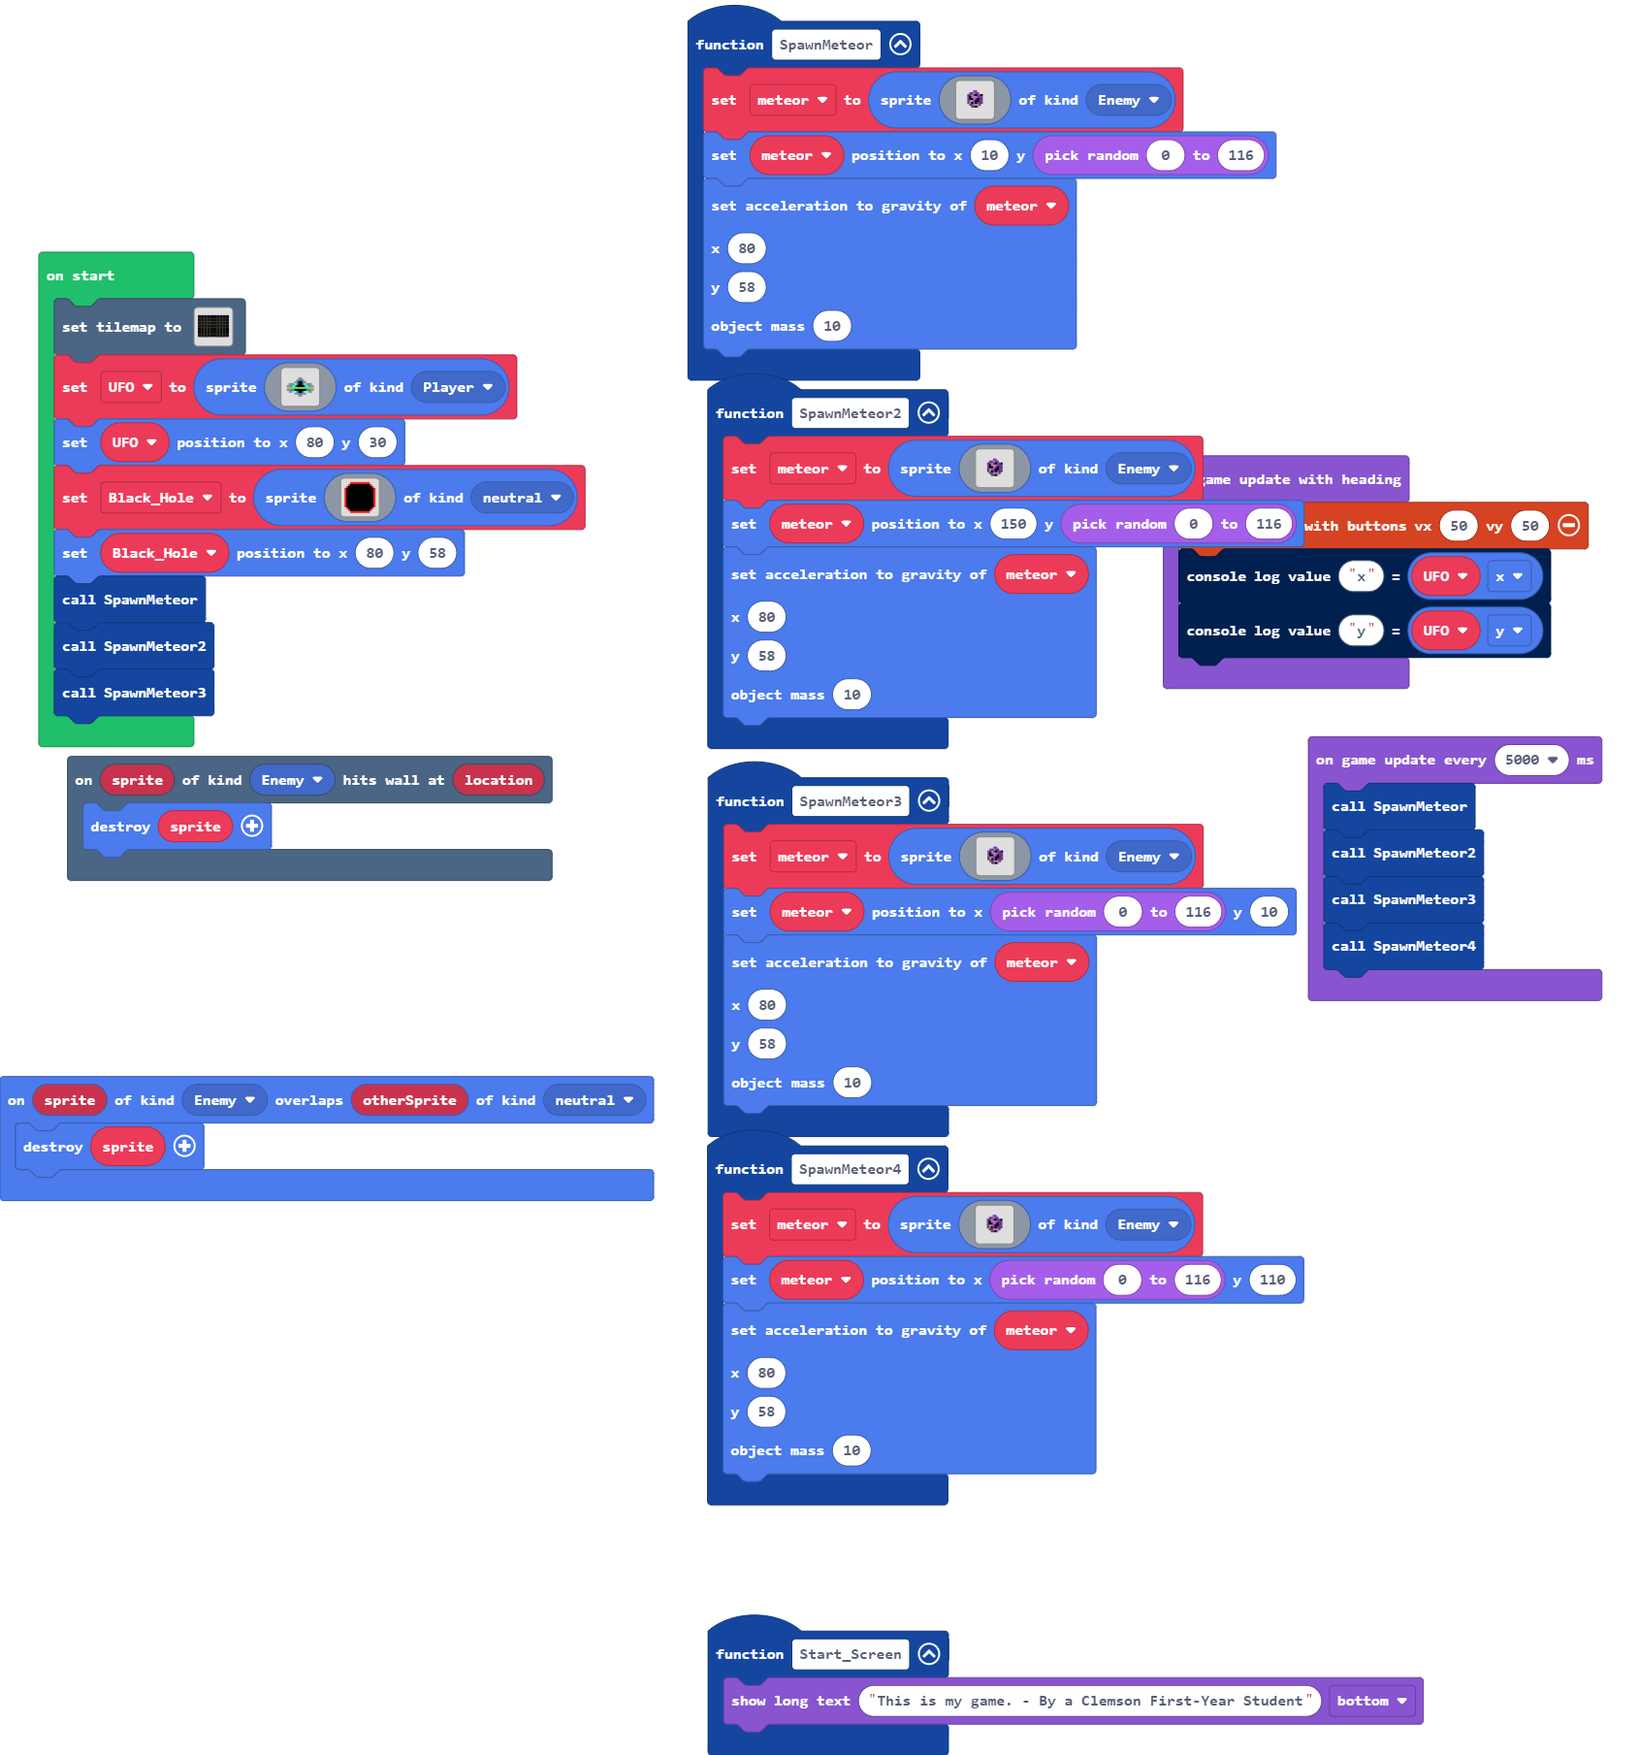
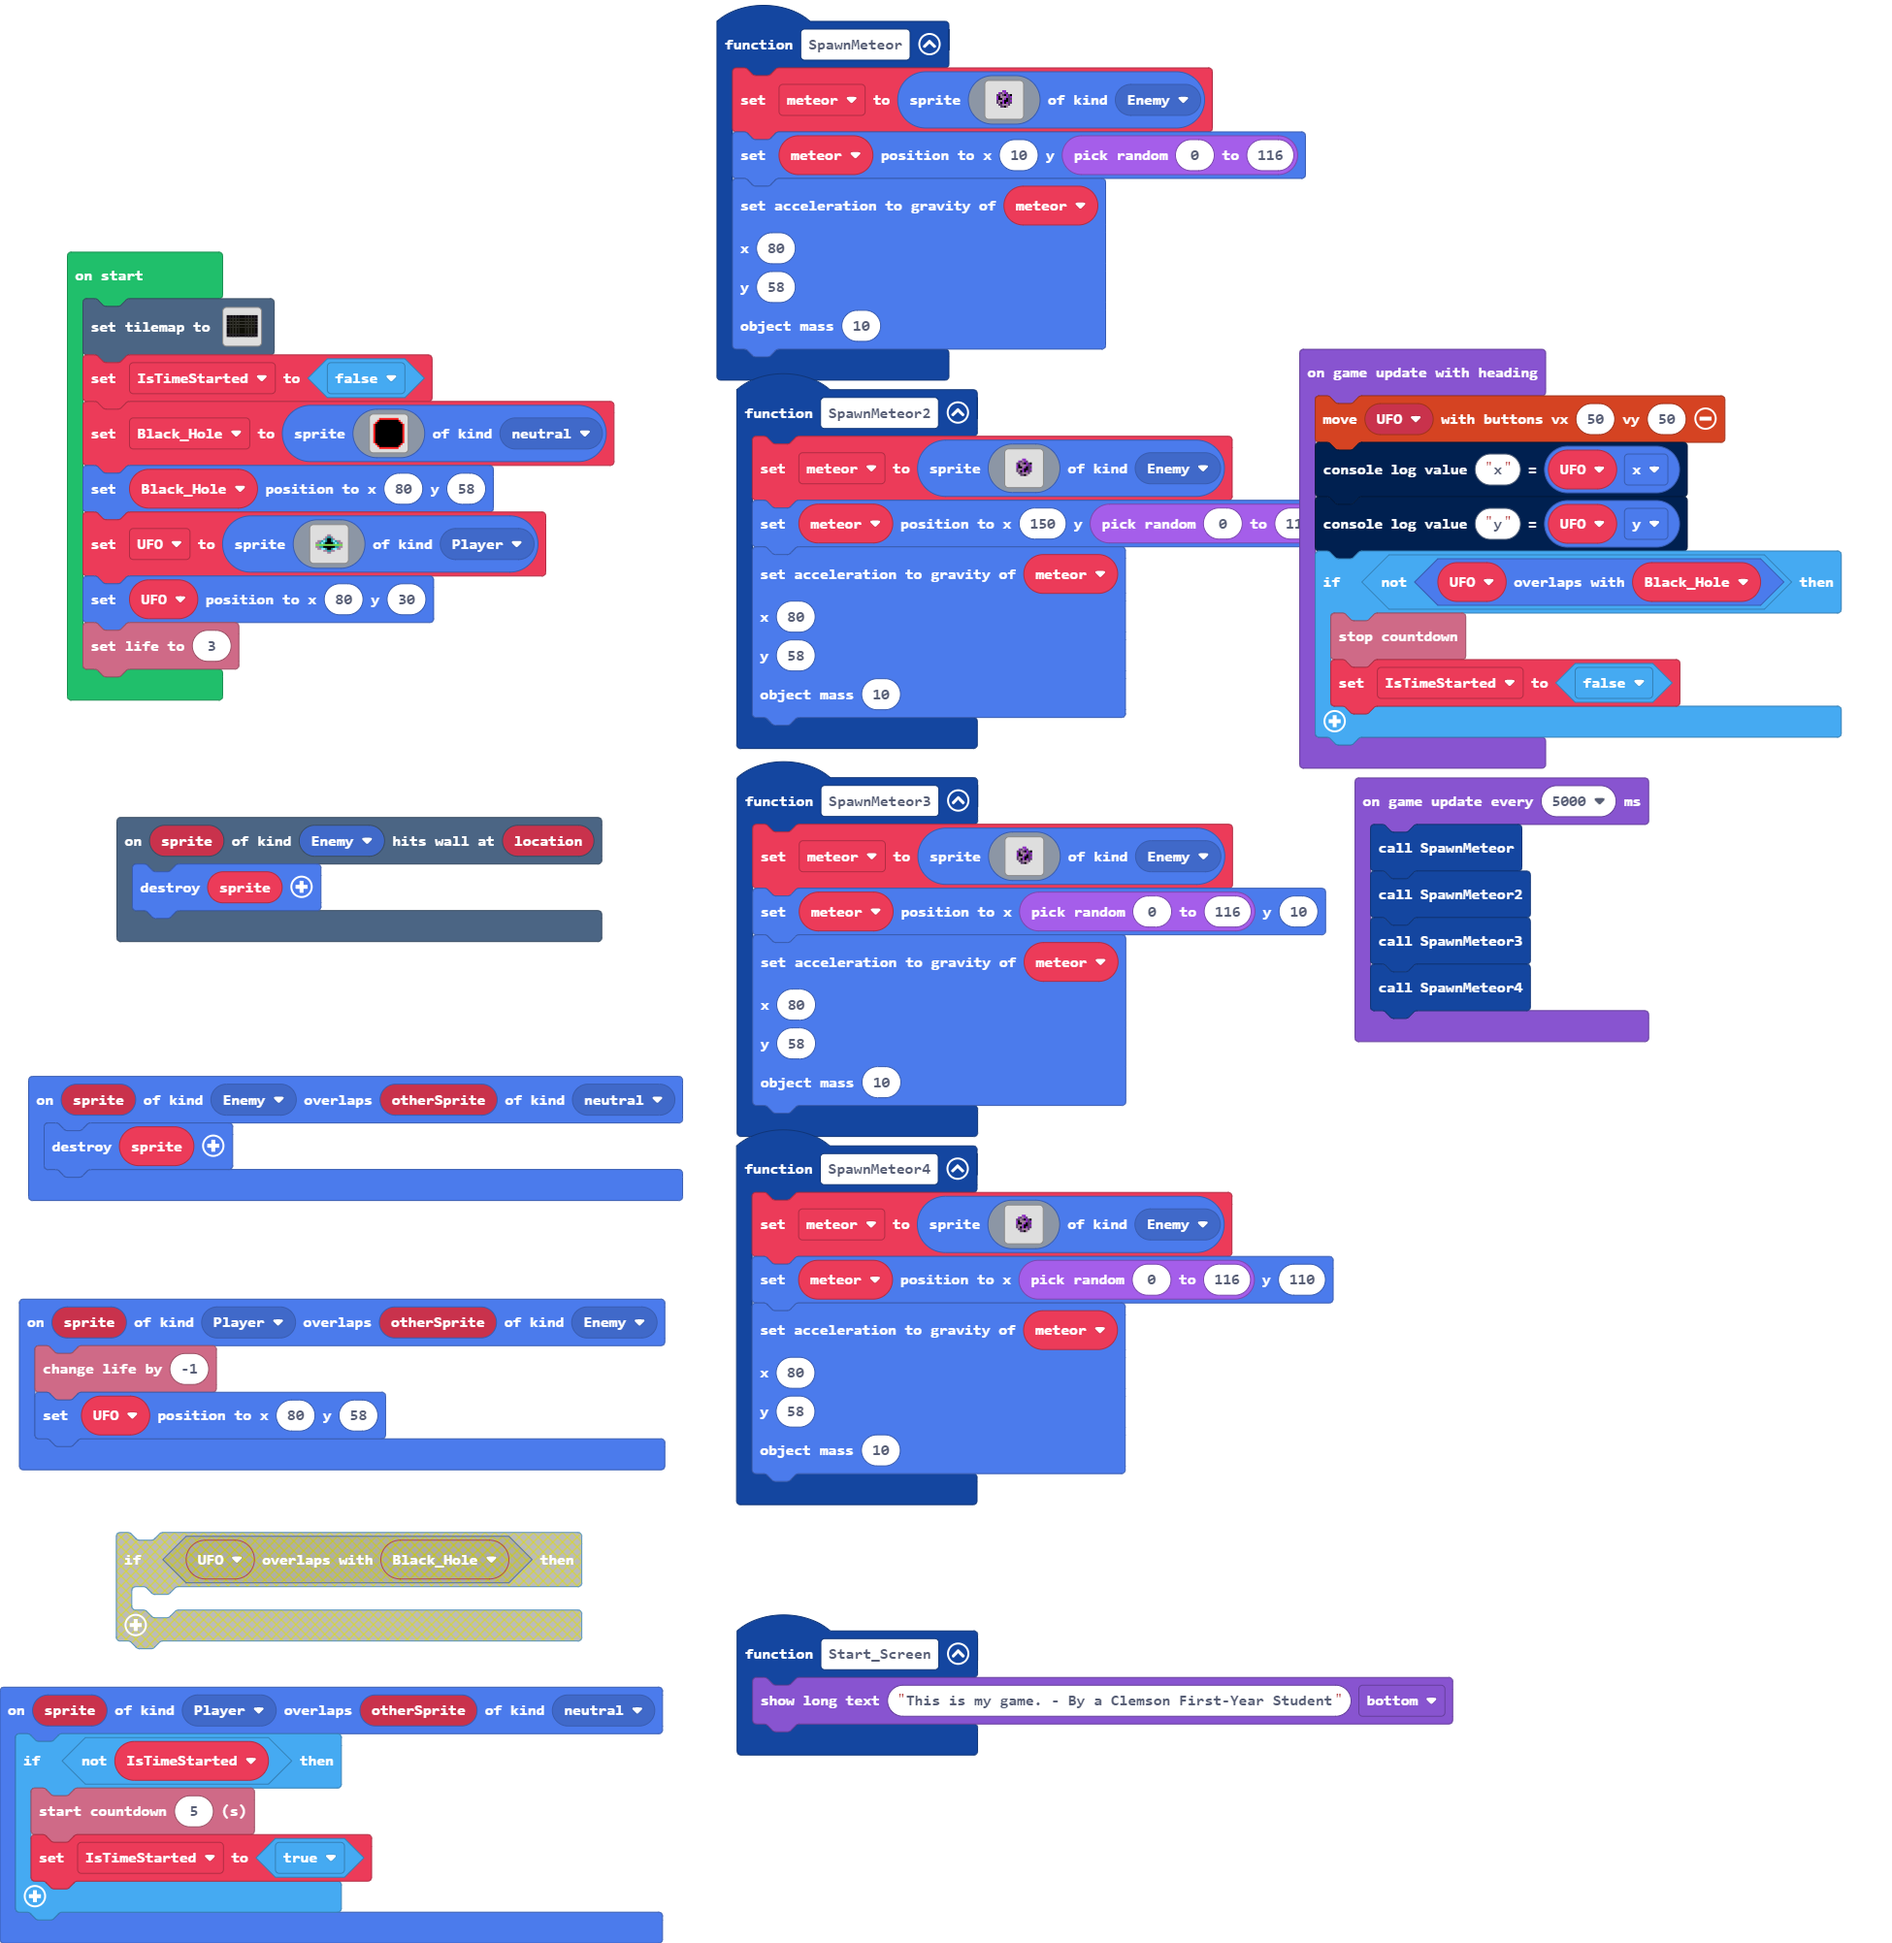
Update main.blocks, main.ts

diff --git a/main.ts b/main.ts
@@ -32,6 +32,10 @@ game.onGameUpdateWithHeading(function () {
     controller.moveSprite(UFO, 50, 50)
     console.logValue("x", UFO.x)
     console.logValue("y", UFO.y)
+    if (!(UFO.overlapsWith(Black_Hole))) {
+        info.stopCountdown()
+        IsTimeStarted = false
+    }
 })
 function SpawnMeteor2 () {
     meteor = sprites.create(img`
@@ -123,8 +127,20 @@ function SpawnMeteor () {
     10
     )
 }
+sprites.onOverlap(SpriteKind.Player, SpriteKind.neutral, function (sprite, otherSprite) {
+    if (!(IsTimeStarted)) {
+        info.startCountdown(5)
+        IsTimeStarted = true
+    }
+})
+sprites.onOverlap(SpriteKind.Player, SpriteKind.Enemy, function (sprite, otherSprite) {
+    info.changeLifeBy(-1)
+    UFO.setPosition(80, 58)
+})
 let meteor: Sprite = null
 let UFO: Sprite = null
+let Black_Hole: Sprite = null
+let IsTimeStarted = false
[1 lines of base64/hex data omitted]
     . . . . . . . . . . 
     . . . . . . . . . . 
@@ -134,6 +150,26 @@ tiles.setTilemap(tiles.createTilemap(hex`0a0007000403030303030303030902010101010
     . . . . . . . . . . 
     . . . . . . . . . . 
     `, [myTiles.transparency16,myTiles.tile1,myTiles.tile2,myTiles.tile5,myTiles.tile6,myTiles.tile8,myTiles.tile9,myTiles.tile3,myTiles.tile4,myTiles.tile7,myTiles.tile11,myTiles.tile12,myTiles.tile13,myTiles.tile14], TileScale.Sixteen))
+IsTimeStarted = false
+Black_Hole = sprites.create(img`
+    . . . 2 2 2 2 2 2 2 2 2 2 . . . 
+    . . 2 f f f f f f f f f f 2 . . 
+    . 2 f f f f f f f f f f f f 2 . 
+    2 f f f f f f f f f f f f f f 2 
+    2 f f f f f f f f f f f f f f 2 
+    2 f f f f f f f f f f f f f f 2 
+    2 f f f f f f f f f f f f f f 2 
+    2 f f f f f f f f f f f f f f 2 
+    2 f f f f f f f f f f f f f f 2 
+    2 f f f f f f f f f f f f f f 2 
+    2 f f f f f f f f f f f f f f 2 
+    2 f f f f f f f f f f f f f f 2 
+    2 f f f f f f f f f f f f f f 2 
+    . 2 f f f f f f f f f f f f 2 . 
+    . . 2 f f f f f f f f f f 2 . . 
+    . . . 2 2 2 2 2 2 2 2 2 2 . . . 
+    `, SpriteKind.neutral)
+Black_Hole.setPosition(80, 58)
 UFO = sprites.create(img`
     . . . . . . . . . . . . . . . . 
     . . . . . . . . . . . . . . . . 
@@ -153,28 +189,7 @@ UFO = sprites.create(img`
     . . . . . . . . . . . . . . . . 
     `, SpriteKind.Player)
 UFO.setPosition(80, 30)
-let Black_Hole = sprites.create(img`
-    . . . 2 2 2 2 2 2 2 2 2 2 . . . 
-    . . 2 f f f f f f f f f f 2 . . 
-    . 2 f f f f f f f f f f f f 2 . 
-    2 f f f f f f f f f f f f f f 2 
-    2 f f f f f f f f f f f f f f 2 
-    2 f f f f f f f f f f f f f f 2 
-    2 f f f f f f f f f f f f f f 2 
-    2 f f f f f f f f f f f f f f 2 
-    2 f f f f f f f f f f f f f f 2 
-    2 f f f f f f f f f f f f f f 2 
-    2 f f f f f f f f f f f f f f 2 
-    2 f f f f f f f f f f f f f f 2 
-    2 f f f f f f f f f f f f f f 2 
-    . 2 f f f f f f f f f f f f 2 . 
-    . . 2 f f f f f f f f f f 2 . . 
-    . . . 2 2 2 2 2 2 2 2 2 2 . . . 
-    `, SpriteKind.neutral)
-Black_Hole.setPosition(80, 58)
-SpawnMeteor()
-SpawnMeteor2()
-SpawnMeteor3()
+info.setLife(3)
 game.onUpdateInterval(5000, function () {
     SpawnMeteor()
     SpawnMeteor2()
